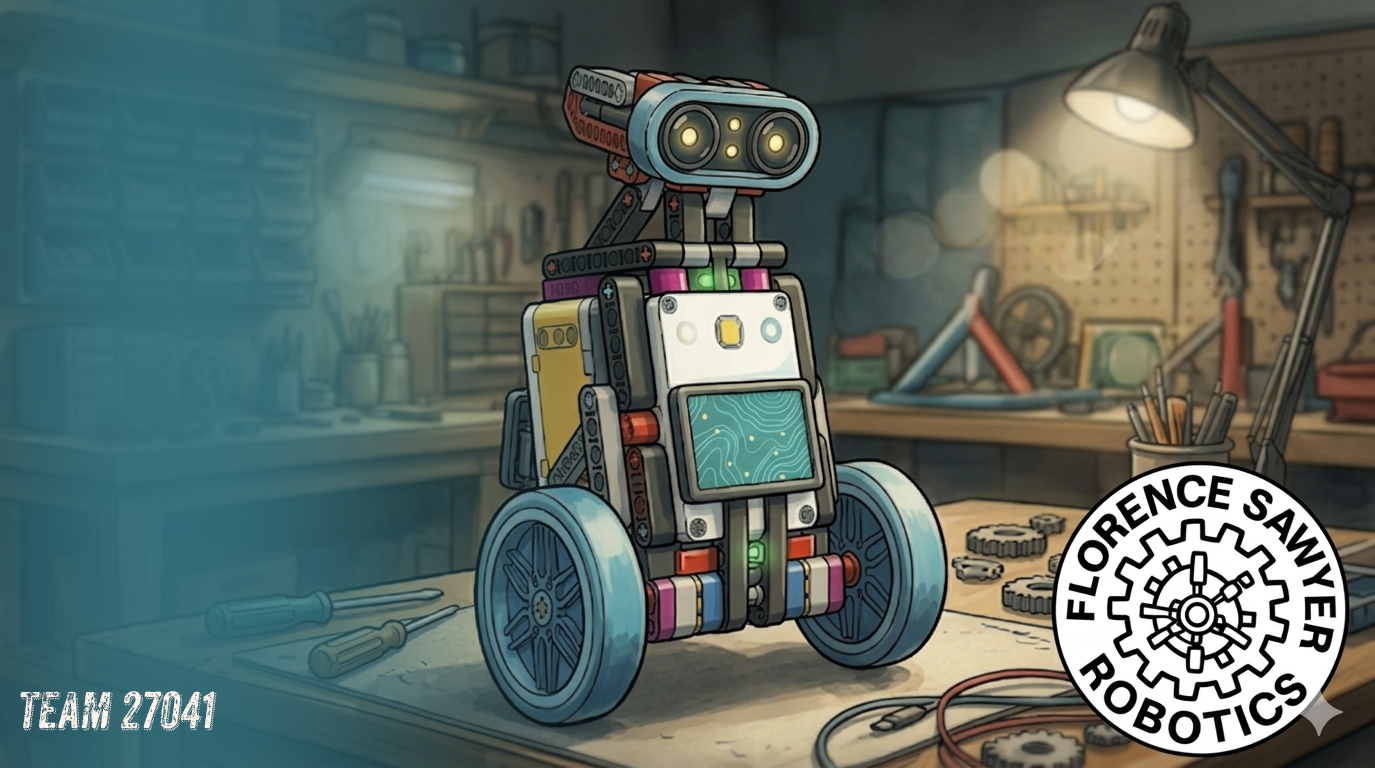
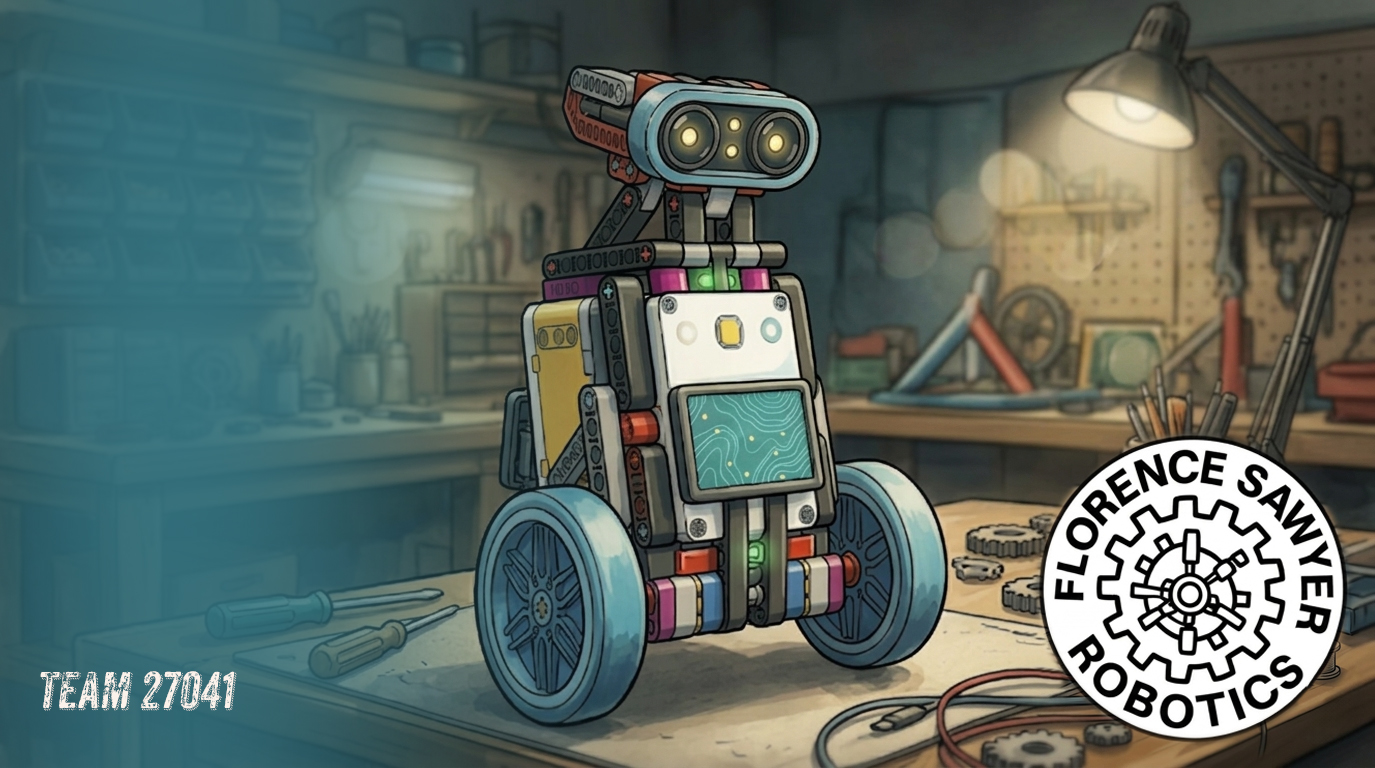
Revise doc season; Adjust 27041 laptop bg

Changed region(s): [[0.7331, 0.5625, 1.0, 1.0], [0.0, 0.875, 0.1833, 0.9688]]

diff --git a/docs/fss_fll_getting_started_with_github.html b/docs/fss_fll_getting_started_with_github.html
@@ -719,7 +719,7 @@ body.sidebar-collapsed #toggle-btn {
         <div class="title-main">Bolton Robotics FLL:<br><span>GitHub Quick Start</span> Guide</div>
         <div class="title-rule"></div>
         <div class="title-sub">Using Git &amp; GitHub Desktop to code as a team</div>
-        <div class="title-meta">Bolton Robotics &nbsp;·&nbsp; FSS FLL Program &nbsp;·&nbsp; 2025–2026 Season</div>
+        <div class="title-meta">Bolton Robotics &nbsp;·&nbsp; FSS FLL Program &nbsp;·&nbsp; 2026–2027 Season</div>
       </div>
     </div>
 
